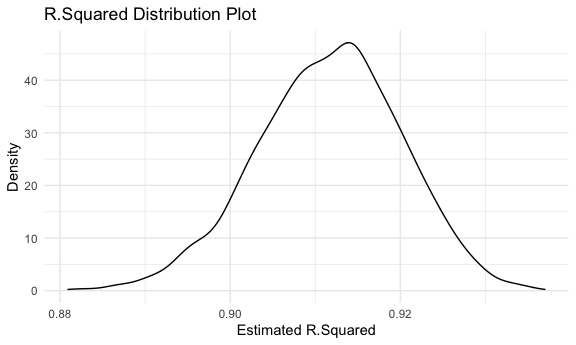
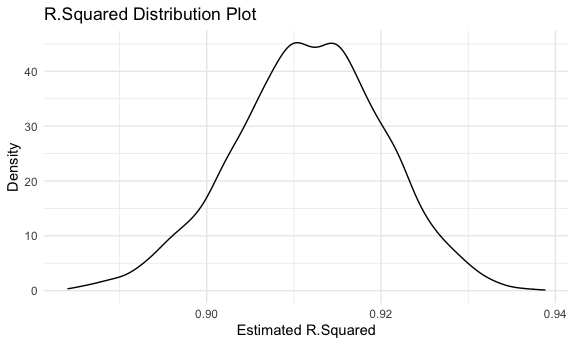
Finish Problem 2

diff --git a/p8105_hw6_wq2160.md b/p8105_hw6_wq2160.md
@@ -261,16 +261,16 @@ boot_df
     ## # A tibble: 5,000 × 3
     ##    strap_number r_squared log_beta
     ##    <chr>            <dbl>    <dbl>
-    ##  1 0001             0.908     1.95
-    ##  2 0002             0.921     2.02
-    ##  3 0003             0.911     2.04
-    ##  4 0004             0.904     2.02
-    ##  5 0005             0.903     2.05
-    ##  6 0006             0.912     1.95
-    ##  7 0007             0.904     2.05
-    ##  8 0008             0.923     2.02
-    ##  9 0009             0.906     1.99
-    ## 10 0010             0.898     2.01
+    ##  1 0001             0.906     2.02
+    ##  2 0002             0.919     2.02
+    ##  3 0003             0.931     1.99
+    ##  4 0004             0.902     2.04
+    ##  5 0005             0.912     2.04
+    ##  6 0006             0.910     2.01
+    ##  7 0007             0.923     1.97
+    ##  8 0008             0.931     1.95
+    ##  9 0009             0.913     1.98
+    ## 10 0010             0.915     1.98
     ## # … with 4,990 more rows
 
 **Plot Estimated R Squared**
@@ -288,6 +288,12 @@ boot_df %>%
 
 <img src="p8105_hw6_wq2160_files/figure-gfm/unnamed-chunk-11-1.png" width="90%" />
 
+Comment: The distribution of `R.Squared` represents a little left-skewed
+(but almost normal) bell-shape curve, and the mean is around 0.912 (r
+squared is between 0 and 1, and larger the value, better the fit). We
+can conclude that most of the r squared are quite close to 1, thus the
+linear model of `tmin` and `tmax` fits really well.
+
 **Plot log(beta\_0 \* beta\_1)**
 
 ``` r
@@ -302,3 +308,41 @@ boot_df %>%
 ```
 
 <img src="p8105_hw6_wq2160_files/figure-gfm/unnamed-chunk-12-1.png" width="90%" />
+
+Comment: The distribution of `log(beta_0 * beta_1)` is almost normal
+distribution (a well bell-shape curve), and the mean value is around
+2.013.
+
+**95% Confidence Interval**
+
+``` r
+## R.Squared
+ci_r = 
+  boot_df %>% 
+  pull(r_squared) %>% 
+  quantile(c(0.025, 0.975))
+
+ci_r
+```
+
+    ##      2.5%     97.5% 
+    ## 0.8940905 0.9279998
+
+``` r
+## log(beta_0 * beta_1)
+ci_log = 
+  boot_df %>% 
+  pull(log_beta) %>% 
+  quantile(c(0.025, 0.975))
+
+ci_log 
+```
+
+    ##     2.5%    97.5% 
+    ## 1.964905 2.058279
+
+Thus, the 95% CI of `R.Squared` is (0.894, 0.928), the 95% CI of
+`log(beta_0 * beta_1)` is (1.965, 2.058). At the significance level of
+0.05, we are 95% confident that the true R.Squared will lies between
+0.895 and 0.928, and the true log(beta\_0 \* beta\_1) will lies between
+1.965 and 2.059.
